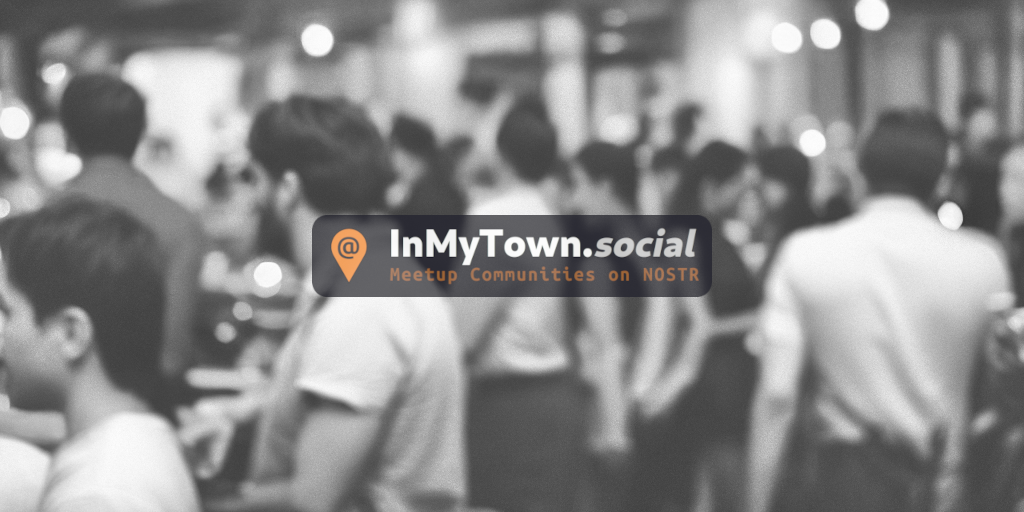
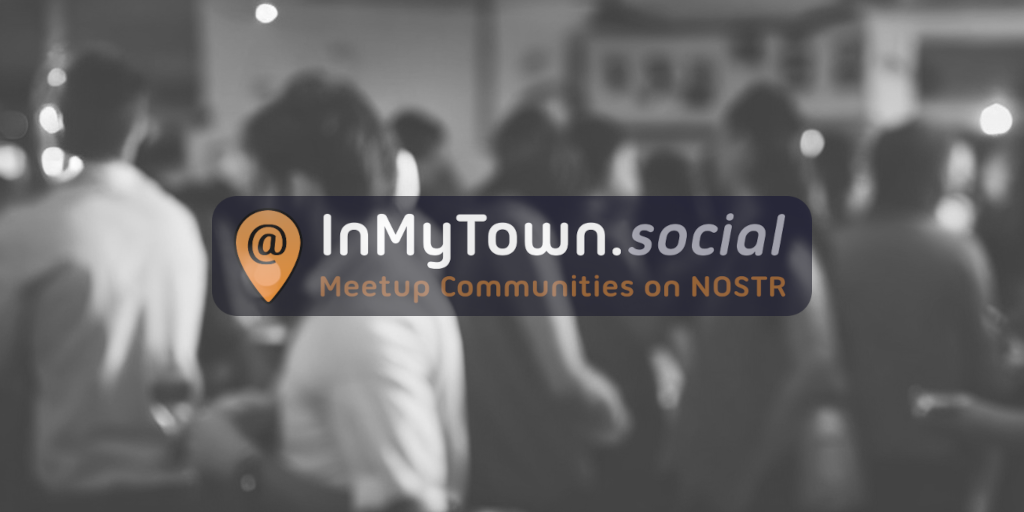
improved default ims

diff --git a/src/lib/MetaTags.svelte b/src/lib/MetaTags.svelte
@@ -5,9 +5,10 @@
     export let description:string | undefined;
     export let url:string ;
     export let image:string | undefined;
+    export let type:string = 'any'
 
     url = $page.url.origin+url
-    image = imgUrlOrDefault(image, 'any', $page.url.origin)
+    image = imgUrlOrDefault(image, type, $page.url.origin)
     title = title.substring(0, 100)
     description = description?.substring(0, 200) || title?.substring(0, 200)
 </script>

diff --git a/src/lib/Menu.svelte b/src/lib/Menu.svelte
@@ -69,7 +69,7 @@
 								href="/user/{$loggedInUser.npub}"
 							>
 								<img
-									src={imgUrlOrDefault($loggedInUser.profile?.image)}
+									src={imgUrlOrDefault($loggedInUser.profile?.image, 'user')}
 									class="rounded-circle nav-uim align-self-center me-2 ms-2"
 									alt="{$loggedInUser.profile?.name} pfp"
 								/>

diff --git a/src/routes/community/[community_id]/+page.svelte b/src/routes/community/[community_id]/+page.svelte
@@ -80,6 +80,7 @@
     description="{data.community.title}, a Nostr Meetup Community in {data.community.city} {data.community.country} with a focus on {data.community.tags.join(', ')}"
     url="{Community.url(data.community)}"
     image={data.community.image}
+    type="community"
 />
 {/if}
 

diff --git a/src/routes/user/[npub]/+page.svelte b/src/routes/user/[npub]/+page.svelte
@@ -64,6 +64,7 @@
     description={data.profile?.about}
     url="/user/{data.npub}"
     image={data.profile?.image}
+    type="user-banner"
 />
 {#if loadingState === 'success'}
     <Header />

diff --git a/src/routes/event/[community_id]/[event_id]/+page.svelte b/src/routes/event/[community_id]/[event_id]/+page.svelte
@@ -73,6 +73,7 @@
     description={data.event.brief}
     url="{MeetupEvent.url(data.event)}"
     image={data.event.image}
+    type="event"
 />
 {/if}
 
